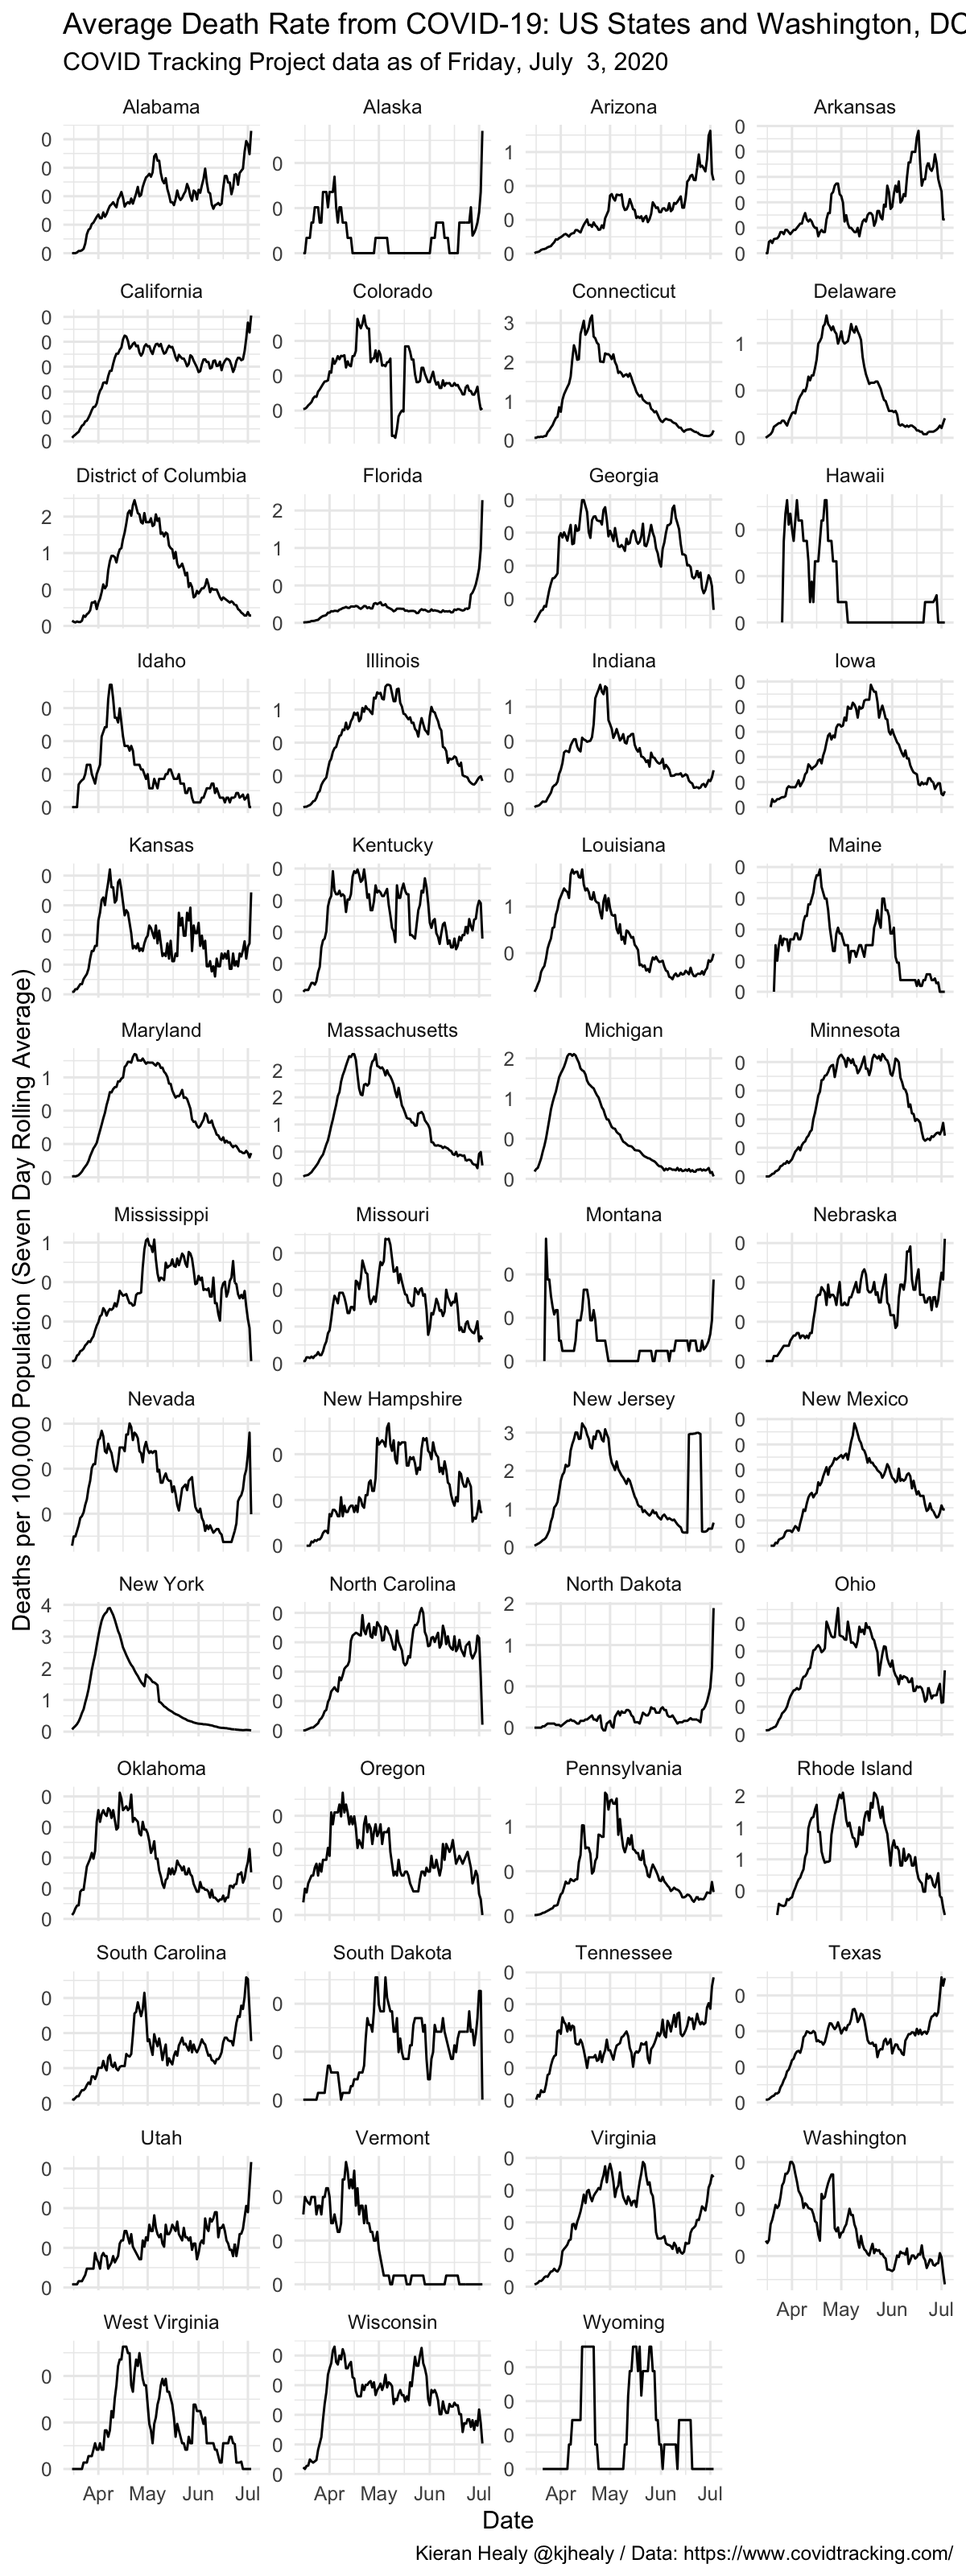
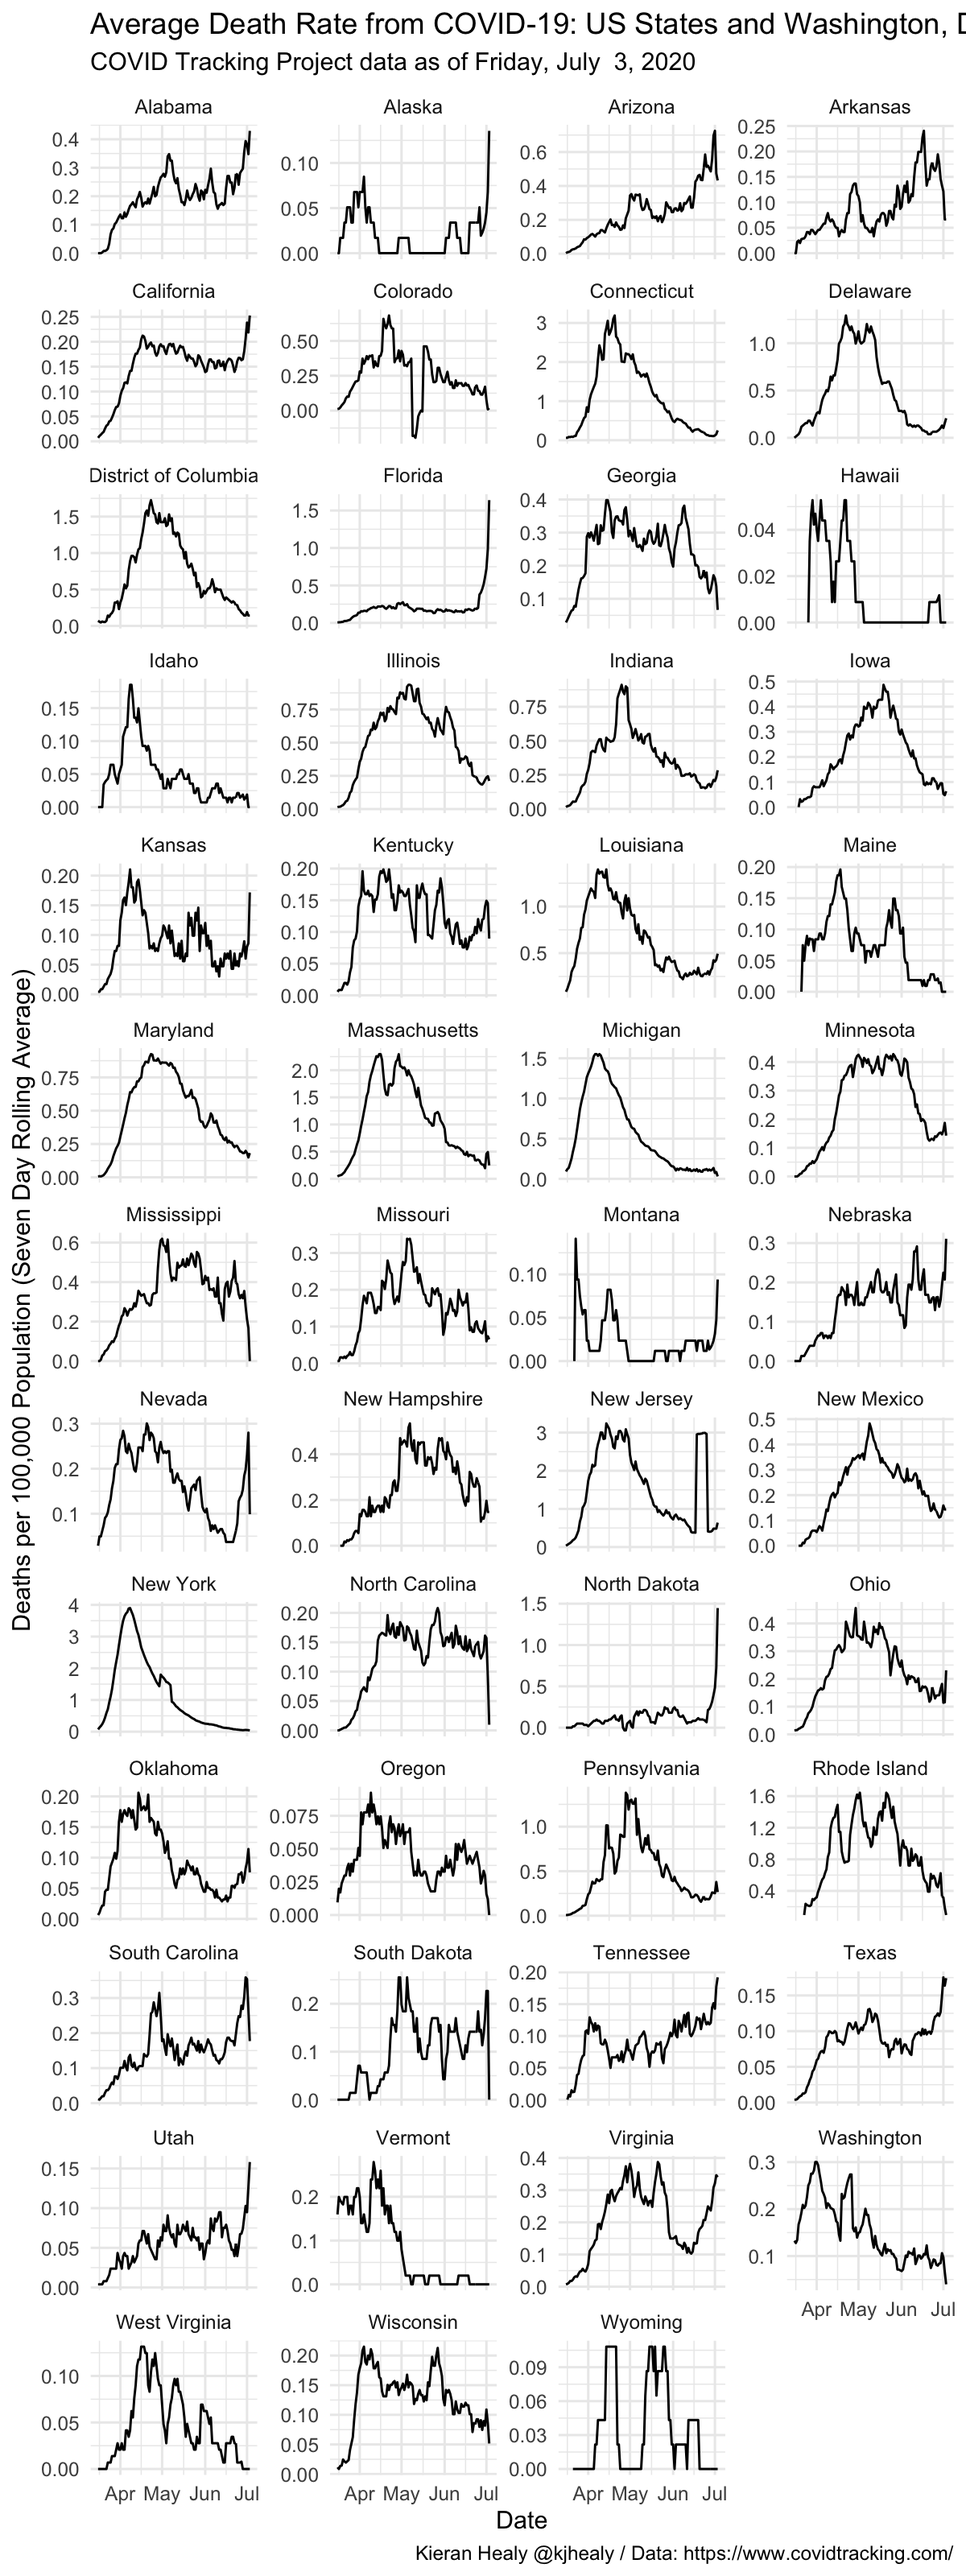
Built site for covdata: 0.2.7.9000@d953794

diff --git a/articles/us-data.html b/articles/us-data.html
@@ -262,7 +262,6 @@
   <span class="fu"><a href="https://rdrr.io/r/stats/filter.html">filter</a></span>(<span class="kw">date</span> <span class="op">&gt;</span> <span class="kw">lubridate</span>::<span class="fu"><a href="http://lubridate.tidyverse.org/reference/ymd.html">ymd</a></span>(<span class="st">"2020-03-15"</span>)) <span class="op">%&gt;%</span>
   <span class="fu">ggplot</span>(mapping = <span class="fu">aes</span>(x = <span class="kw">date</span>, y = (<span class="kw">deaths7</span><span class="op">/</span><span class="kw">pop</span>)<span class="op">*</span><span class="fl">1e5</span>)) <span class="op">+</span> 
   <span class="fu">geom_line</span>(size = <span class="fl">0.5</span>) <span class="op">+</span> 
-  <span class="fu">scale_y_continuous</span>(labels = <span class="kw">scales</span>::<span class="fu"><a href="https://scales.r-lib.org//reference/label_number.html">comma_format</a></span>(accuracy = <span class="fl">1</span>)) <span class="op">+</span> 
   <span class="fu">facet_wrap</span>(<span class="op">~</span> <span class="kw">name</span>, ncol = <span class="fl">4</span>, scales = <span class="st">"free_y"</span>) <span class="op">+</span>
   <span class="fu">labs</span>(x = <span class="st">"Date"</span>, 
        y = <span class="st">"Deaths per 100,000 Population (Seven Day Rolling Average)"</span>, 
